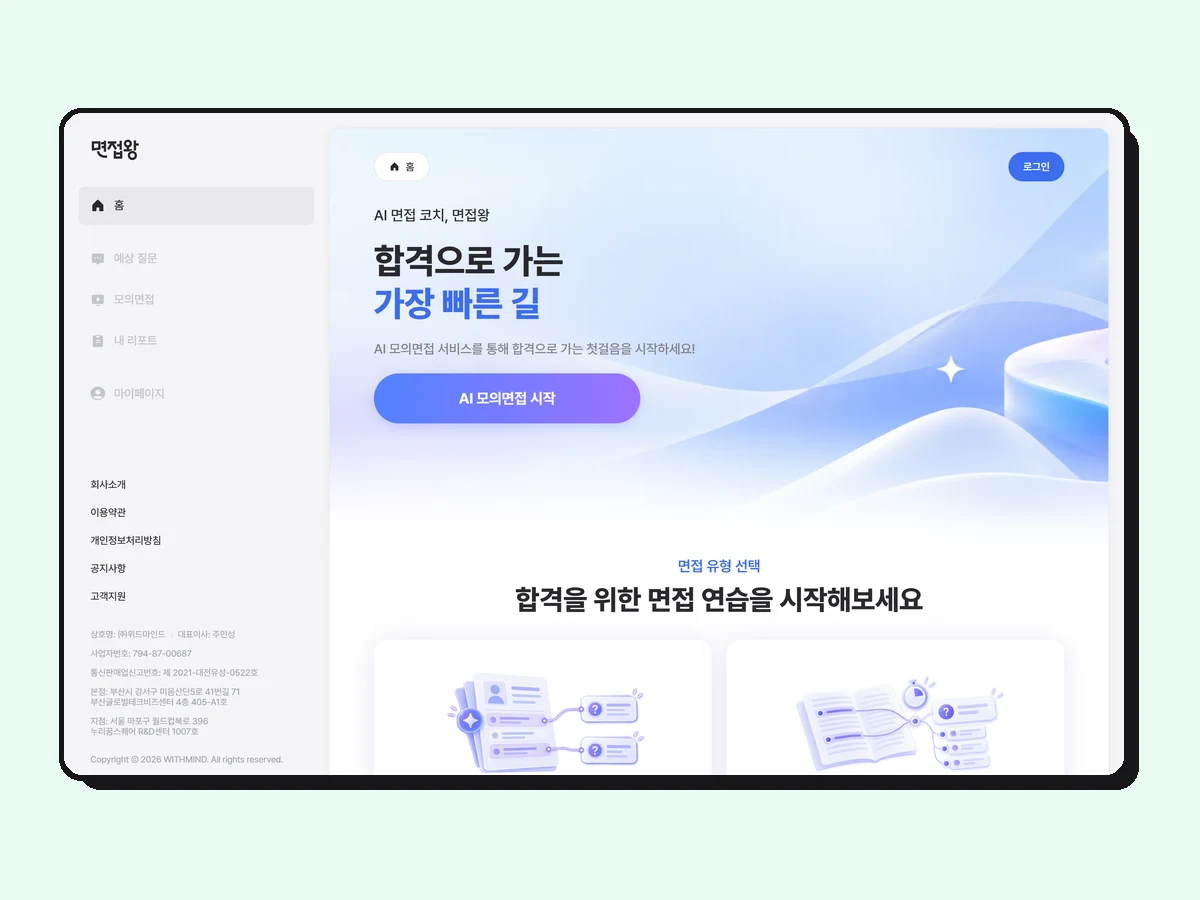
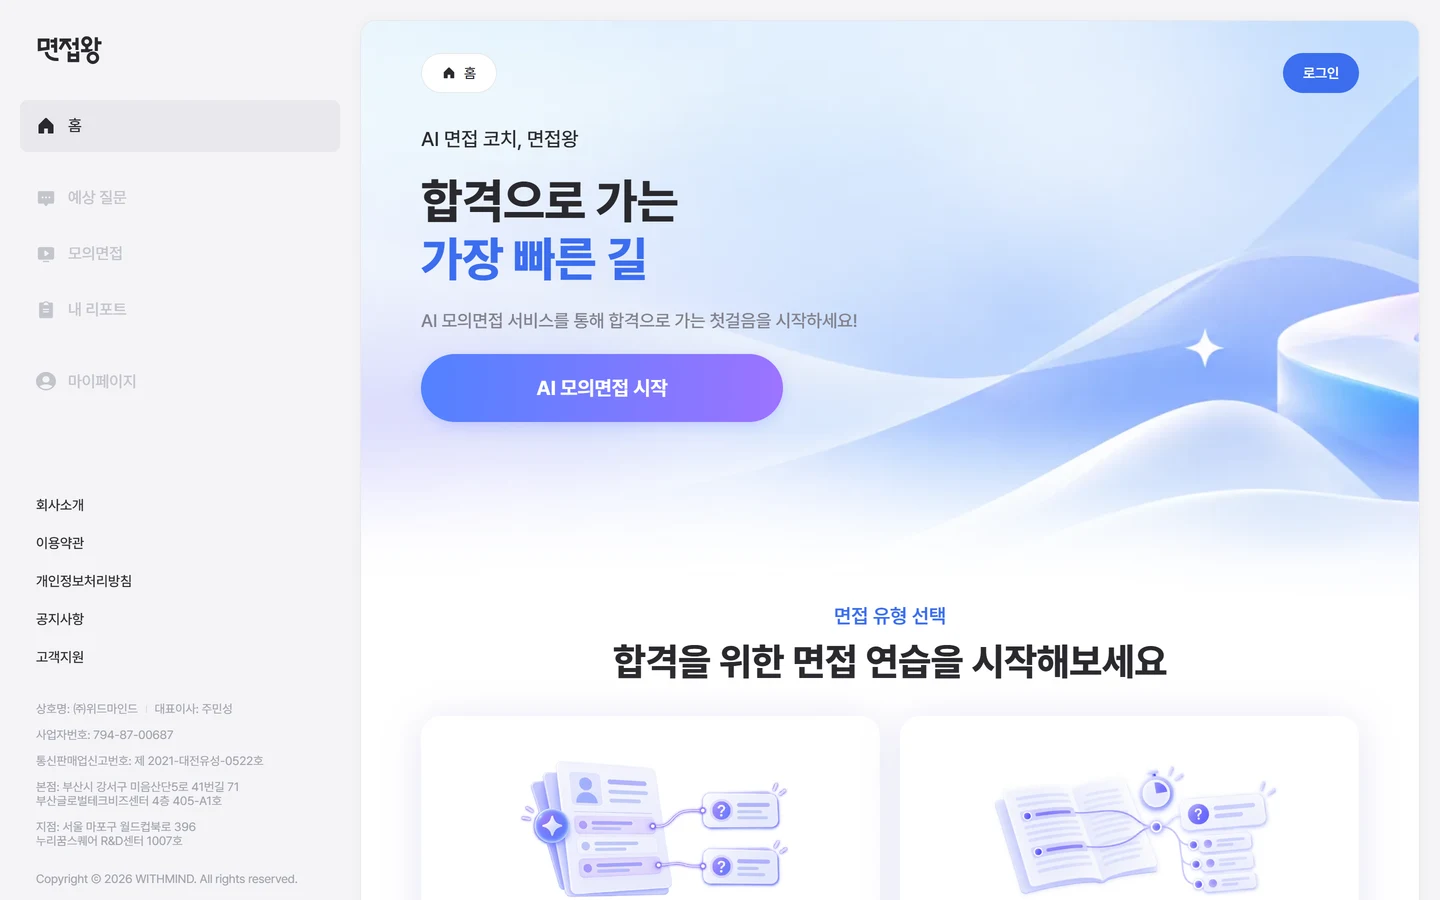
카드 메인 화면을 폴라로이드 틀 없이 우측 배치
- 화면 원본만 잉크 테두리+하드 섀도로, 뒤에 카드색 원
- 세로 화면(하이어·장고·키오스크)은 높이 380px 폰 모양, 가로 화면은 폭 맞춤

diff --git a/index.html b/index.html
@@ -277,6 +277,20 @@ html.lock{overflow:hidden}
 .pol.empty .shot{border-style:dashed;background:repeating-linear-gradient(-45deg,#fff 0 12px,#f1eee7 12px 24px);text-align:center;padding:16px;font-family:var(--mono);font-size:11px;letter-spacing:0;color:var(--gy);line-height:1.6}
 .pol.empty .shot strong{display:block;font-size:12.5px;letter-spacing:.02em;color:var(--ink);margin-bottom:6px}
 .pol.empty figcaption b{word-break:keep-all;overflow-wrap:anywhere}
+/* 메인 화면 — 프레임 없이 */
+.scr{--tilt:1.5deg;position:relative;margin:0;width:100%;display:flex;flex-direction:column;align-items:center;gap:16px}
+.pcard:nth-child(even) .scr{--tilt:-1.5deg}
+.scr::before{content:'';position:absolute;z-index:0;left:50%;top:44%;width:86%;aspect-ratio:1;max-height:420px;transform:translate(-50%,-50%);border-radius:50%;background:var(--ac);opacity:.22}
+.scr .sc{position:relative;z-index:1;width:100%;border:2px solid var(--ink);border-radius:14px;background:#fff;overflow:hidden;box-shadow:8px 8px 0 var(--ink);transform:rotate(var(--tilt));transition:transform .4s var(--pop),box-shadow .25s var(--ez)}
+.scr .sc img{display:block;width:100%;height:auto}
+.scr.pt .sc{width:auto;height:380px;border-radius:30px}
+.scr.pt .sc img{width:auto;height:100%}
+.pcard:hover .scr .sc{transform:rotate(calc(var(--tilt) * .3)) translateY(-4px);box-shadow:11px 11px 0 var(--ink)}
+.scr figcaption{position:relative;z-index:1;font-family:var(--mono);font-size:10.5px;letter-spacing:.03em;line-height:1.5;display:flex;flex-direction:column;align-items:center;gap:2px;text-align:center}
+.scr figcaption b{font-family:var(--sans);font-size:13.5px;font-weight:700;letter-spacing:-.01em;color:var(--ink);text-wrap:balance}
+.scr figcaption span{color:var(--gy)}
+@media(max-width:760px){.scr.pt .sc{height:300px}}
+@media(prefers-reduced-motion:reduce){.scr .sc{transition:none}}
 .gorow{display:flex;justify-content:space-between;align-items:center;gap:16px;margin-top:26px;flex-wrap:wrap}
 .st{font-family:var(--mono);font-size:10.5px;letter-spacing:.05em;color:var(--gy);display:flex;align-items:center;gap:8px}
 .st::before{content:'';flex:none;width:8px;height:8px;border-radius:50%;background:var(--ac);border:1.5px solid var(--ink)}
@@ -598,7 +612,7 @@ function CK(t){return '<span class="ck">확인 필요'+(t?' · '+esc(t):'')+'</s
 /* ================= 데이터 (출처: projects.json verified_numbers / my_role / deliverables) ================= */
 var P = [
 {
- id:'hyer', main:{src:'assets/main_hyer.webp',w:1200,h:900,cap:'하이어 모바일 홈 — 이력서·자기소개서·AI면접연습·채용공고',date:'디자인·퍼블 최종 화면'}, no:'001', name:'하이어 HYER', tag:'AI / HR Platform', period:'2025.11 – 2026.05', ac:'#2f5bff',
+ id:'hyer', main:{src:'assets/main_hyer.webp',w:375,h:812,cap:'하이어 모바일 홈 — 이력서·자기소개서·AI면접연습·채용공고',date:'디자인·퍼블 최종 화면'}, no:'001', name:'하이어 HYER', tag:'AI / HR Platform', period:'2025.11 – 2026.05', ac:'#2f5bff',
  cv:{role:'공동 → 리드 — 위드마인드 측 기획 담당, 정기회의 14회 중 6회 주관·회의록 작성',scope:'AI 적용 범위 정책 · 서비스 구조 Phase 1~4 · 요구사항정의서 · 기능명세 v1.0~v1.7 · 화면설계서 4종',out:'AI 적용 범위 정책 <mark>3건</mark> 확정 → 장고(서울형 R&amp;D)로 이관',outNote:'정량 성과 지표 없음'}, polCk:'작성 귀속',
  stamp:'공동 → 리드', status:'중단 (사업 구조 변경) · 최종 확인 필요',
  one:'장애인 취업지원 AI 플랫폼(2개사 공동개발). AI 챗봇 기반 이력서·자소서·면접연습에서 AI를 어디까지 쓸지를 2개사 간 정책으로 확정했습니다.',
@@ -637,7 +651,7 @@ var P = [
  missing:['QA시트','매뉴얼','약관']
 },
 {
- id:'literacy', main:{src:'assets/main_literacy.webp',w:1200,h:900,cap:'문해력탐험대 학생 홈 — 어휘의 숲 탐험 지도·탐험 기록',date:'고도화 화면 · 태블릿'}, no:'002', name:'문해력탐험대', tag:'Education · B2G', period:'2024.11 – 운영 중', ac:'#ff5d3b',
+ id:'literacy', main:{src:'assets/main_literacy.webp',w:1440,h:812,cap:'문해력탐험대 학생 홈 — 어휘의 숲 탐험 지도·탐험 기록',date:'고도화 화면 · 태블릿'}, no:'002', name:'문해력탐험대', tag:'Education · B2G', period:'2024.11 – 운영 중', ac:'#ff5d3b',
  cv:{role:'단독 — 서비스 기획 전담 (약관·소개서·학생매뉴얼은 선임 선행본 개정·고도화)',scope:'요구사항 → 데이터정책 V1.1 → QA(11인 분담) → 매뉴얼·약관 → CS 12건, 전 주기',out:'실제 도입 학교 <mark>0 → 10곳</mark> · 실사용 학생 <mark>533명</mark>'},
  stamp:'단독', status:'오픈 · 운영 중',
  one:'초·중등 대상 AI 문해력 진단·트레이닝. 요구사항부터 운영·CS까지 한 서비스의 전 주기를 맡아, 실제 도입 학교 2025년 0곳 → 2026년 10곳으로 이어졌습니다.',
@@ -675,7 +689,7 @@ var P = [
  missing:['IA','스토리보드','회의록']
 },
 {
- id:'interviewking', main:{src:'assets/main_ik.webp',w:1200,h:900,cap:'면접왕 메인 — AI 모의면접 시작·면접 유형 선택',date:'interviewking.kr 실서비스'}, no:'003', name:'면접왕 · 면접코치', tag:'B2C + B2G · B2B', period:'2025.01 – 재직 중', ac:'#17c08a',
+ id:'interviewking', main:{src:'assets/main_ik.webp',w:1440,h:900,cap:'면접왕 메인 — AI 모의면접 시작·면접 유형 선택',date:'interviewking.kr 실서비스'}, no:'003', name:'면접왕 · 면접코치', tag:'B2C + B2G · B2B', period:'2025.01 – 재직 중', ac:'#17c08a',
  cv:{role:'인계 후 개정 — 면접왕 2.0 IA·화면기획은 본인 작성',scope:'2.0 IA·화면기획 · 입력필드/시간표기/알림 정책 · 생기부 PDF 판정 7유형 · 매뉴얼·약관 · CS',out:'2.0 기획 <mark>28화면</mark> · 기획서 HTML 110개 · 입력필드 정책 <mark>26개</mark>'},
  stamp:'인계 후 개정', status:'오픈 · 운영 중 · 2.0 고도화 단계 확인 필요',
  one:'운영 중인 대입 AI 모의면접. 2.0 고도화를 28화면·입력필드 정책 26개의 정책 체계로 기획하고, 매뉴얼·약관·CS를 맡았습니다.',
@@ -711,7 +725,7 @@ var P = [
  missing:['요구사항정의서','기능명세서','WBS']
 },
 {
- id:'jobkok', main:{src:'assets/main_jobkok.webp',w:1200,h:900,cap:'잡콕 메인 — 통합 검색 + 직무 분류',date:'jobkok.kr 실서비스'}, no:'004', name:'잡콕 JOBKOK', tag:'Platform / Data', period:'2025.10 – 고도화 중', ac:'#ffc83d',
+ id:'jobkok', main:{src:'assets/main_jobkok.webp',w:1440,h:900,cap:'잡콕 메인 — 통합 검색 + 직무 분류',date:'jobkok.kr 실서비스'}, no:'004', name:'잡콕 JOBKOK', tag:'Platform / Data', period:'2025.10 – 고도화 중', ac:'#ffc83d',
  cv:{role:'공동 — 고도화 기획 · QA · 데이터 담당',scope:'QA TC 작성 규칙 제정 · QA 체크리스트 설계(7인 분담) · 직무분류표 · 온톨로지 4종 · 약관 3종',out:'QA <mark>397케이스</mark> 설계, N/A <mark>12건 전부</mark> 기획서 미정의로 역추적'}, polFile:'잡콕_QA_체크리스트_임서하.xlsx',
  stamp:'공동', status:'개발중 · 고도화 진행 중',
  one:'AI 면접 분석 + 채용공고 통합 플랫폼. QA 397케이스를 설계해 N/A 12건 전부가 기획서 미정의였음을 역추적하고, 직무분류·온톨로지 등 AI 데이터 파트까지 맡았습니다.',
@@ -747,7 +761,7 @@ var P = [
  missing:['기능명세서','IA','WBS']
 },
 {
- id:'janggo', main:{src:'assets/main_janggo.webp',w:1200,h:900,cap:'장고 구직자 홈 — 공고 검색·채용공고·AI 면접',date:'jango.kr 실서비스 · 모바일'}, no:'005', name:'장고 · 서울형 R&D', tag:'R&D · B2G', period:'2026.04 – 2026.09', ac:'#9a63ff',
+ id:'janggo', main:{src:'assets/main_janggo.webp',w:780,h:1688,cap:'장고 구직자 홈 — 공고 검색·채용공고·AI 면접',date:'jango.kr 실서비스 · 모바일'}, no:'005', name:'장고 · 서울형 R&D', tag:'R&D · B2G', period:'2026.04 – 2026.09', ac:'#9a63ff',
  cv:{role:'단독 — 기획 전담 + 인증·검증 문서 총괄',scope:'하이어 정책 이관 · 요구사항 v2.0 · 기능명세 v2.0 · IA 3도메인 · ISO/IEC 25023 사용성 검증 · TTA 증빙',out:'사용성 검증 <mark>176건</mark>으로 기획-구현 불일치(60초 vs 15초) 적발·수정'},
  stamp:'단독', status:'과제 완료 (2026-09-16 최종보고) · 서비스 단계 확인 필요',
  one:'장애인 취업지원 AI 플랫폼 R&D 시제품. 중단된 하이어의 확정 정책을 국가과제 요건(정량지표·ISO 검증·AI 신뢰성 증빙)에 맞춰 재설계·이관하고, 인증 대응 문서를 총괄했습니다.',
@@ -786,7 +800,7 @@ var P = [
  missing:['WBS','매뉴얼','운영정책서']
 },
 {
- id:'schoolkiosk', main:{src:'assets/main_kiosk.webp',w:1200,h:900,cap:'인터박스 메인 — AI 안내원 + 길찾기·급식·학교소식·FAQ',date:'최종 퍼블리싱 화면 · 1080×1920'}, no:'006', name:'학교 안내 키오스크', tag:'Kiosk · B2G', period:'2026.09 – 진행 중', ac:'#ff6fae',
+ id:'schoolkiosk', main:{src:'assets/main_kiosk.webp',w:540,h:960,cap:'인터박스 메인 — AI 안내원 + 길찾기·급식·학교소식·FAQ',date:'최종 퍼블리싱 화면 · 1080×1920'}, no:'006', name:'학교 안내 키오스크', tag:'Kiosk · B2G', period:'2026.09 – 진행 중', ac:'#ff6fae',
  cv:{role:'단독 — 신규 착수 기획 담당',roleCk:'역할 범위',scope:'킥오프 회의록 정리 · 홀로오더 자산 재사용/신규/삭제 매핑 · 배리어프리 무인정보단말기 법규 리서치',out:null,outNote:'진행 중 과제 — 성과·도입 실적은 기재하지 않음'}, polFile:'홀로오더 자산 재사용/신규/삭제 매핑표', polFileCk:'파일명',
  stamp:'단독', stampCk:true, status:'착수 · 요구사항 수집 단계',
  one:'학교 로비 안내 캐릭터 대화형 키오스크(서비스명 인터박스). 주문·결제형 키오스크 자산을 학교 안내형으로 전환하는 신규 착수 과제입니다.',
@@ -849,8 +863,13 @@ function vizHTML(p){
 /* 폴라로이드 증거 썸네일 (요약 카드 전용) */
 function polHTML(p){
   var e=p.main||p.ev;
+  if(p.main){
+    var pt=e.h>e.w;
+    return '<figure class="scr'+(pt?' pt':'')+'"><div class="sc"><img src="'+e.src+'" width="'+e.w+'" height="'+e.h+'" alt="'+esc(e.alt||e.cap)+'" loading="lazy" decoding="async"></div>'+
+      '<figcaption><b>'+esc(e.cap)+'</b><span>'+esc(e.date)+'</span></figcaption></figure>';
+  }
   if(e){
-    var ck=p.main?'':(p.polCk||e.ck);
+    var ck=p.polCk||e.ck;
     return '<figure class="pol"><div class="shot"><img src="'+e.src+'" width="'+e.w+'" height="'+e.h+'" alt="'+esc(e.alt||e.cap)+'" loading="lazy" decoding="async"></div>'+
       '<figcaption><b>'+esc(e.cap)+'</b><span>'+esc(e.date)+'</span>'+(ck?CK(ck):'')+'</figcaption></figure>';
   }
